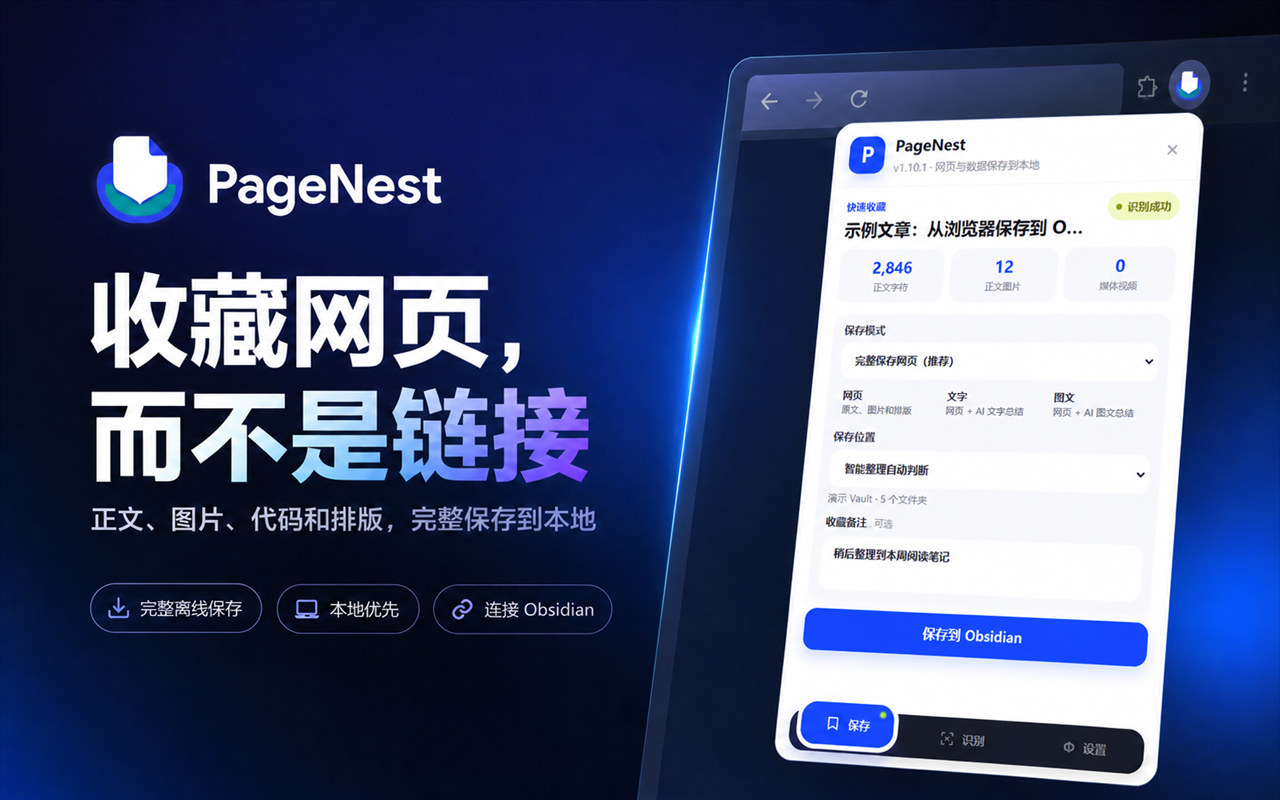
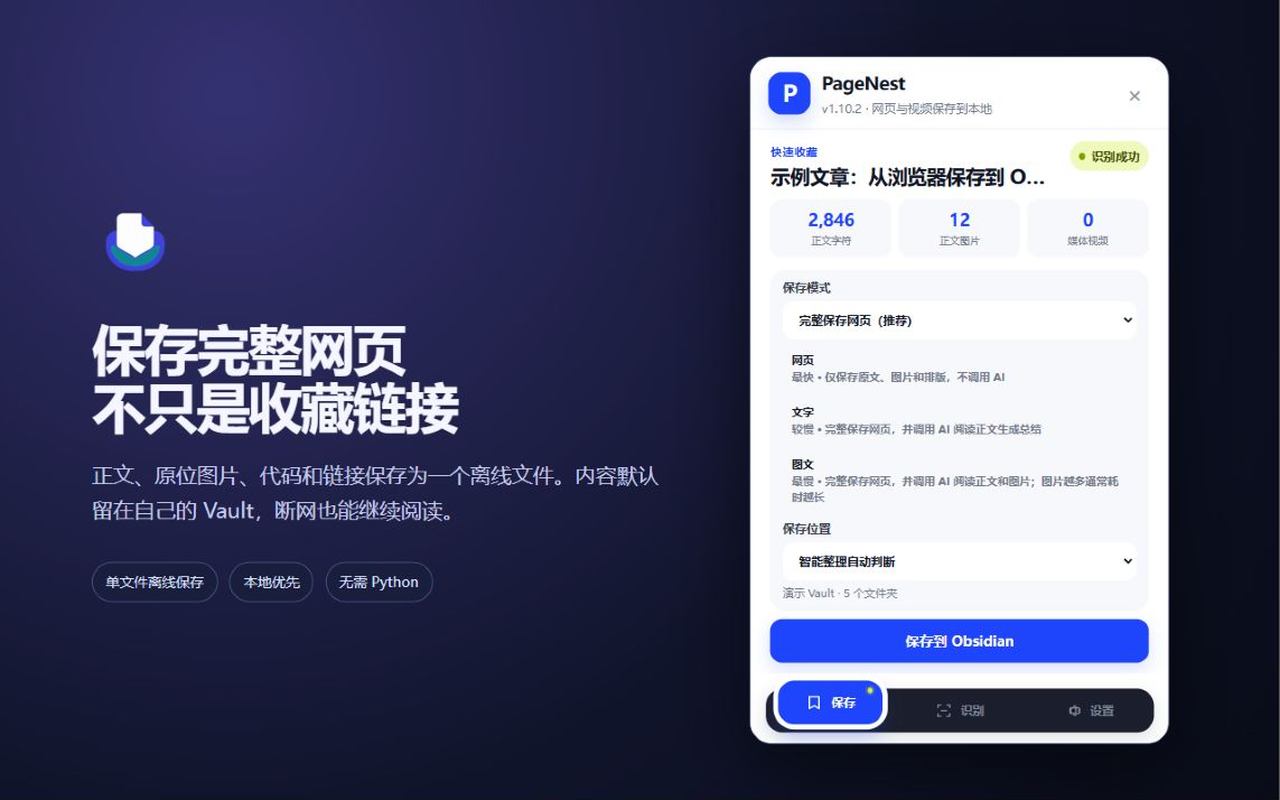
release: prepare PageNest 1.10.2

diff --git a/docs/安装说明.html b/docs/安装说明.html
@@ -3,7 +3,7 @@
 <head>
 <meta charset="utf-8">
 <meta name="viewport" content="width=device-width,initial-scale=1">
-<title>PageNest v1.10.1 安装说明</title>
+<title>PageNest v1.10.2 安装说明</title>
 <style>
 :root{color-scheme:light;--ink:#111827;--muted:#667085;--blue:#1e45fb;--soft:#f5f7fb;--line:#e4e8f0;--lime:#cdf22b}*{box-sizing:border-box}body{font:16px/1.75 system-ui,-apple-system,"Segoe UI","Microsoft YaHei",sans-serif;max-width:880px;margin:0 auto;padding:48px 24px 80px;color:var(--ink);background:#fff}header{margin-bottom:32px}h1{font-size:38px;line-height:1.2;margin:0 0 10px}h2{font-size:22px;margin:0 0 10px}.lead,.muted{color:var(--muted)}section{padding:22px 24px;border:1px solid var(--line);border-radius:18px;margin:16px 0;background:var(--soft)}code{background:#e9edff;padding:3px 7px;border-radius:6px;word-break:break-all}.step{display:inline-grid;place-items:center;width:30px;height:30px;border-radius:10px;background:var(--blue);color:#fff;margin-right:8px}.ok{display:inline-block;background:var(--lime);padding:4px 10px;border-radius:999px;font-weight:700}.warning{border-left:4px solid #f5a524;padding-left:14px}.path{display:block;margin:10px 0;padding:12px;background:#fff;border:1px solid var(--line)}ul,ol{padding-left:22px}@media(max-width:600px){body{padding:28px 16px}section{padding:18px}}
 </style>
@@ -11,14 +11,14 @@
 <body>
 <header>
   <span class="ok">正式版</span>
-  <h1>PageNest v1.10.1</h1>
+  <h1>PageNest v1.10.2</h1>
   <p class="lead">两步完成安装：从 Edge Add-ons 安装扩展，再跟随扩展内的首次使用引导。</p>
 </header>
 
 <section>
   <h2><span class="step">1</span>安装 Edge 扩展</h2>
-  <p>从 Microsoft Edge Add-ons 安装 <strong>PageNest 网页与视频笔记</strong>。商店版会自动更新，也是普通用户的推荐入口。</p>
-  <p class="muted">商店仍在审核时请等待正式链接开放。开发人员模式与 Load unpacked 只用于开发或故障恢复。</p>
+  <p>从 <a href="https://microsoftedge.microsoft.com/addons/detail/lbefpoljnlieecogeihhdmgnmjmjkmmd">Microsoft Edge Add-ons</a> 安装 <strong>PageNest 网页与视频笔记</strong>。商店版会自动更新，也是普通用户的推荐入口。</p>
+  <p class="muted">开发人员模式与 Load unpacked 只用于开发或故障恢复。</p>
 </section>
 
 <section>

diff --git a/store/preview.html b/store/preview.html
@@ -22,7 +22,7 @@
       const documentCopy = new DOMParser().parseFromString(html, "text/html");
       document.querySelector("#popup").append(documentCopy.querySelector("main"));
       const set = (id, value) => { document.getElementById(id).textContent = value; };
-      set("extensionVersion", "v1.10.1");
+      set("extensionVersion", "v1.10.2");
       set("domain", "example.com");
       set("title", "示例文章：从浏览器保存到 Obsidian");
       set("status", "已识别正文");
@@ -36,7 +36,9 @@
       set("folderStatus", "演示 Vault · 5 个文件夹");
       set("saveFolderStatus", "演示 Vault · 5 个文件夹");
       set("vaultName", "演示 Vault");
-      document.getElementById("note").value = "稍后整理到本周阅读笔记";
+      document.getElementById("serviceOnboarding").classList.add("hidden");
+      document.getElementById("serviceConnectedBanner").classList.add("hidden");
+      document.getElementById("saveWorkspace").classList.remove("hidden");
       const settings = new URLSearchParams(location.search).get("view") === "settings";
       if (settings) {
         document.body.classList.add("settings");
@@ -50,7 +52,7 @@
         const service = document.getElementById("serviceStatus");
         service.className = "service-status connected";
         service.querySelector("strong").textContent = "PageNest 后台服务已连接";
-        set("serviceStatusDetail", "Service 1.10.1 · 本机安全连接");
+        set("serviceStatusDetail", "Service 1.10.2 · 本机安全连接");
       }
     });
   </script>

diff --git a/docs/feature-gallery.html b/docs/feature-gallery.html
@@ -368,12 +368,12 @@
         },
         {
           src: "../store-assets/edge/screenshots/03_vision_ai.png",
-          alt: "PageNest Vision AI：为画面生成标题与摘要",
+          alt: "PageNest Vision AI：为画面生成结构化知识笔记",
           eyebrow: "03 · Vision AI",
-          title: "视觉 AI 看懂每一帧",
-          titleEn: "Optional titles and summaries",
-          description: "使用你自己配置的 AI provider 生成标题和摘要；原始截图始终保留。",
-          descriptionEn: "Use your configured provider for visual notes while the original screenshot stays intact."
+          title: "视觉 AI 整理知识画面",
+          titleEn: "Structured visual knowledge notes",
+          description: "使用你自己配置的 AI provider 整理内容摘要、关键知识点和画面信息；原始截图始终保留。",
+          descriptionEn: "Use your configured provider for structured visual notes while the original screenshot stays intact."
         },
         {
           src: "../store-assets/edge/screenshots/04_lightbox.png",

diff --git a/store/popup-onboarding-preview.html b/store/popup-onboarding-preview.html
@@ -21,7 +21,7 @@
           getMessage: key => messages[key]?.message || "",
           getUILanguage: () => "zh-CN",
         },
-        runtime: {getManifest: () => ({version: "1.10.1"})},
+        runtime: {getManifest: () => ({version: "1.10.2"})},
       };
       frame.PageNestI18n.localizeDocument(frame.document);
       const state = new URL(location.href).searchParams.get("state") || "missing";

diff --git a/scripts/generate_edge_store_demo.py b/scripts/generate_edge_store_demo.py
@@ -34,7 +34,12 @@ def build_demo() -> Path:
                 video_timestamp_seconds=42,
                 image_data=image_data("promo-marquee-1400x560.png"),
                 title="课程开场：建立本地知识收藏",
-                summary="视觉 AI 识别到 PageNest 品牌开场画面，并将它记录为视频时间线的第一个关键节点。",
+                summary=(
+                    "内容摘要\n介绍 PageNest 的本地知识收藏定位。\n\n"
+                    "关键知识点\n• 网页与视频笔记保存到自己的 Vault\n"
+                    "• 视频截图按时间线组织\n\n"
+                    "画面关键信息\n• PageNest 品牌开场画面"
+                ),
                 analysis_status="complete",
             ),
             NotebookEntry(
@@ -46,7 +51,12 @@ def build_demo() -> Path:
                     ROOT / "store-assets" / "edge" / "screenshots",
                 ),
                 title="保存完整网页的操作演示",
-                summary="画面展示扩展完成正文识别后，用户选择保存模式、目标文件夹和收藏备注，然后写入自己的 Vault。",
+                summary=(
+                    "内容摘要\n画面展示新版扩展完成正文识别后，选择保存模式和目标文件夹。\n\n"
+                    "关键知识点\n• 网页模式不调用 AI\n"
+                    "• AI 模式失败时仍保留原网页\n\n"
+                    "画面关键信息\n• 三种模式显示清晰的相对耗时说明"
+                ),
                 analysis_status="complete",
             ),
             NotebookEntry(
@@ -55,7 +65,12 @@ def build_demo() -> Path:
                 video_timestamp_seconds=428,
                 image_data=image_data("01-popup-save.png"),
                 title="PageNest 网页收藏入口",
-                summary="扩展 Popup 已完成正文识别，用户可以选择保存模式、Vault 文件夹和可选备注，然后生成本地离线页面。",
+                summary=(
+                    "内容摘要\n扩展 Popup 已完成正文识别，用户可以选择保存模式和 Vault 文件夹。\n\n"
+                    "关键知识点\n• 新收藏不再包含收藏备注\n"
+                    "• 保存结果为本地单文件页面\n\n"
+                    "画面关键信息\n• PageNest 1.10.2 保存界面"
+                ),
                 analysis_status="complete",
             ),
         ],

diff --git a/tests/test_release.py b/tests/test_release.py
@@ -20,11 +20,11 @@ from scripts.package_release import (
 def test_release_versions_are_consistent():
     release = validate_version_metadata(ROOT)
     assert release["components"] == {
-        "browser_extension": "1.10.1",
-        "local_server": "1.10.1",
+        "browser_extension": "1.10.2",
+        "local_server": "1.10.2",
         "obsidian_viewer": "1.5.0",
     }
-    assert release["release"] == "1.10.1"
+    assert release["release"] == "1.10.2"
     assert release["protocol"] == {
         "api_protocol_version": 1,
         "pagenest_format_version": 1,
@@ -63,7 +63,7 @@ def test_release_validator_rejects_runtime_and_private_entries(entry):
 
 
 def test_release_packages_have_expected_roots(tmp_path):
-    installer = tmp_path / "PageNest-Setup-1.10.1.exe"
+    installer = tmp_path / "PageNest-Setup-1.10.2.exe"
     installer.write_bytes(b"test installer")
     packages = build_release(tmp_path)
     browser, viewer, server = packages
@@ -105,7 +105,7 @@ def test_release_packages_have_expected_roots(tmp_path):
     stable = tmp_path / "PageNest-Setup.exe"
     assert stable.read_bytes() == installer.read_bytes()
     assert (tmp_path / "PageNest-Setup.exe.sha256").is_file()
-    assert (tmp_path / "PageNest-Setup-1.10.1.exe.sha256").is_file()
+    assert (tmp_path / "PageNest-Setup-1.10.2.exe.sha256").is_file()
     assert stable.name in checksums
 
 

diff --git a/scripts/package_store.py b/scripts/package_store.py
@@ -39,7 +39,7 @@ EDGE_FILES = (
     (EDGE_ROOT / "CAPTIONS.md", "CAPTIONS.md"),
     (EDGE_ROOT / "PARTNER_CENTER_CHECKLIST.md", "PARTNER_CENTER_CHECKLIST.md"),
     (EDGE_ROOT / "privacy-and-permissions.md", "privacy-and-permissions.md"),
-    (EDGE_ROOT / "reviewer-notes.md", "reviewer-notes-v1.10.1.md"),
+    (EDGE_ROOT / "reviewer-notes.md", "reviewer-notes-v1.10.2.md"),
 )
 EDGE_ASSETS = (
     EDGE_ROOT / "assets" / "logo-300.png",

diff --git a/local-server/collector/main.py b/local-server/collector/main.py
@@ -44,7 +44,7 @@ async def lifespan(_app: FastAPI):
     yield
 
 
-app = FastAPI(title="PageNest Web Collector", version="1.10.1", lifespan=lifespan)
+app = FastAPI(title="PageNest Web Collector", version="1.10.2", lifespan=lifespan)
 app.add_middleware(RequestSizeLimitMiddleware, max_bytes=MAX_REQUEST_BYTES)
 app.add_middleware(
     CORSMiddleware,

diff --git a/tests/test_main.py b/tests/test_main.py
@@ -56,7 +56,7 @@ def test_meta_reports_explicit_service_capabilities(monkeypatch):
 
     assert response.status_code == 200
     assert response.json() == {
-        "service_version": "1.10.1",
+        "service_version": "1.10.2",
         "api_protocol_version": 1,
         "pagenest_format_version": 1,
         "supported_page_variants": [

diff --git a/README.en.md b/README.en.md
@@ -4,7 +4,7 @@
 <p align="center">Save a webpage as one self-contained <code>.pagenest</code> file, then reopen it inside Obsidian with a dedicated web-style Viewer.</p>
 
 <p align="center">
-  <a href="https://github.com/WYuHuai/PageNest/releases/tag/v1.10.1"><img alt="PageNest v1.10.1" src="https://img.shields.io/badge/release-v1.10.1-1E45FB"></a>
+  <a href="https://github.com/WYuHuai/PageNest/releases/tag/v1.10.2"><img alt="PageNest v1.10.2" src="https://img.shields.io/badge/release-v1.10.2-1E45FB"></a>
   <a href="https://github.com/WYuHuai/PageNest/actions/workflows/ci.yml"><img alt="CI" src="https://github.com/WYuHuai/PageNest/actions/workflows/ci.yml/badge.svg"></a>
   <img alt="Windows validation" src="https://img.shields.io/badge/Windows-11%20clean%20install%20validated%20%7C%2010%20not%20fully%20validated-0078D4?logo=windows">
   <img alt="Edge and Chrome" src="https://img.shields.io/badge/Browser-Edge%20%7C%20Chrome-4285F4">
@@ -97,7 +97,7 @@ local, portable, and readable inside your vault.
 
 ### 1. Install the Edge extension
 
-Install PageNest from Microsoft Edge Add-ons, then open it once.
+Install PageNest from [Microsoft Edge Add-ons](https://microsoftedge.microsoft.com/addons/detail/lbefpoljnlieecogeihhdmgnmjmjkmmd), then open it once. The public store version updates automatically after Microsoft certification.
 
 ### 2. Follow the first-run guide
 
@@ -115,14 +115,17 @@ Fallback download: [`PageNest-Setup.exe`](https://github.com/WYuHuai/PageNest/re
 The installer is currently unsigned. Windows SmartScreen may display
 **Unknown publisher**; PageNest does not require disabling Microsoft Defender.
 
-### 2. Load the browser extension
+### Optional: manually load the browser extension
 
-Until the Edge Add-ons listing is published:
+Use this only when you need the newest GitHub version before its store update,
+or for development and recovery. Download the Extension ZIP from the matching
+GitHub Release and extract it first; Edge cannot load the ZIP directly.
 
 1. Open `edge://extensions/` (or `chrome://extensions/`).
 2. Enable **Developer mode**.
 3. Choose **Load unpacked**.
-4. Select `%LOCALAPPDATA%\Programs\PageNest\Extension`.
+4. Select the extracted extension folder containing `manifest.json`, or the
+   installer's `%LOCALAPPDATA%\Programs\PageNest\Extension` recovery copy.
 
 ### 3. Enable PageNest Viewer
 
